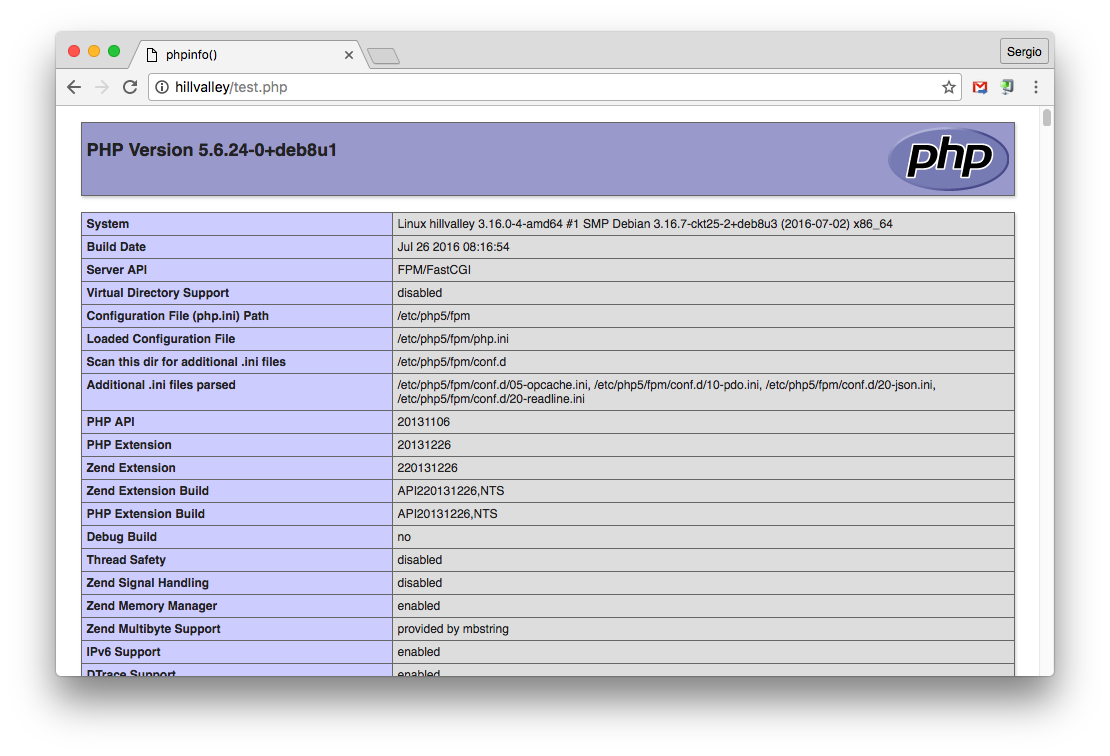
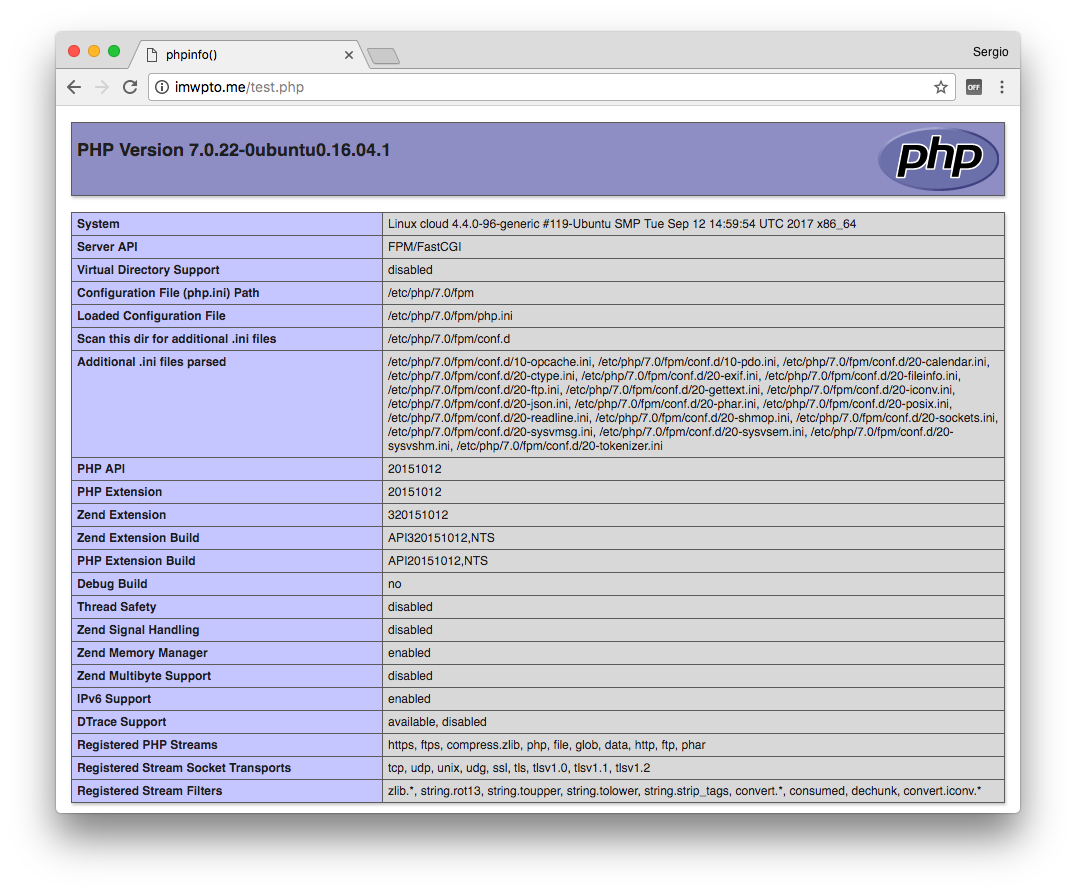
Updated PHP configuration contents

Changed region(s): [[0.0307, 0.0304, 0.9507, 0.9431]]

diff --git a/imw/UT1/notes/phpconf/README.md b/imw/UT1/notes/phpconf/README.md
@@ -1,147 +1,176 @@
 # Configuración de PHP
 
-**PHP** es un lenguaje de programación, ampliamente utilizado en la generación de contenido web.
+**PHP** es un lenguaje de programación, ampliamente utilizado en la creación de contenido web.
+
+![PHP Logo](img/php_logo.png) 
 
 ## Instalación
 
 Aunque ya hemos instalado [el servidor web Nginx](../webserver), necesitamos un módulo adicional que procese el lenguaje PHP.
 
-Existen varios módulos de tratamiento de PHP, pero el más usado es `php-fpm`. Para su instalación usaremos el paquete `php5-fpm` disponible en los repositorios de *apt*:
+Existen varios módulos de tratamiento de PHP, pero el más usado es `php-fpm`. Para su instalación usaremos el paquete `php-fpm` disponible en los repositorios de *apt*:
 
 ```console
-root@hillvalley:~# apt-get install php5-fpm
+sdelquin@cloud:~$ sudo apt-get install php-fpm
 Leyendo lista de paquetes... Hecho
 Creando árbol de dependencias
 Leyendo la información de estado... Hecho
-Se instalarán los siguientes paquetes extras:
-  libapparmor1 libonig2 libqdbm14 php5-cli php5-common php5-json php5-readline
+Se instalarán los siguientes paquetes adicionales:
+  php-common php7.0-cli php7.0-common php7.0-fpm php7.0-json php7.0-opcache php7.0-readline
 Paquetes sugeridos:
-  php-pear php5-user-cache
+  php-pear
 Se instalarán los siguientes paquetes NUEVOS:
-  libapparmor1 libonig2 libqdbm14 php5-cli php5-common php5-fpm php5-json php5-readline
-0 actualizados, 8 nuevos se instalarán, 0 para eliminar y 0 no actualizados.
-Se necesita descargar 5.441 kB de archivos.
-Se utilizarán 20,4 MB de espacio de disco adicional después de esta operación.
+  php-common php-fpm php7.0-cli php7.0-common php7.0-fpm php7.0-json php7.0-opcache php7.0-readline
+0 actualizados, 8 nuevos se instalarán, 0 para eliminar y 22 no actualizados.
+Se necesita descargar 3.543 kB de archivos.
+Se utilizarán 14,1 MB de espacio de disco adicional después de esta operación.
 ¿Desea continuar? [S/n]
-Des:1 http://ftp.es.debian.org/debian/ jessie/main libonig2 amd64 5.9.5-3.2 [118 kB]
-Des:2 http://ftp.es.debian.org/debian/ jessie/main libqdbm14 amd64 1.8.78-5+b1 [118 kB]
-Des:3 http://ftp.es.debian.org/debian/ jessie/main php5-json amd64 1.3.6-1 [18,6 kB]
-Des:4 http://ftp.es.debian.org/debian/ jessie/main libapparmor1 amd64 2.9.0-3 [60,3 kB]
-Des:5 http://security.debian.org/ jessie/updates/main php5-common amd64 5.6.24+dfsg-0+deb8u1 [725 kB]
-Des:6 http://security.debian.org/ jessie/updates/main php5-cli amd64 5.6.24+dfsg-0+deb8u1 [2.187 kB]
-Des:7 http://security.debian.org/ jessie/updates/main php5-fpm amd64 5.6.24+dfsg-0+deb8u1 [2.201 kB]
-Des:8 http://security.debian.org/ jessie/updates/main php5-readline amd64 5.6.24+dfsg-0+deb8u1 [12,7 kB]
-Descargados 5.441 kB en 6s (901 kB/s)
-Seleccionando el paquete libonig2:amd64 previamente no seleccionado.
-(Leyendo la base de datos ... 33832 ficheros o directorios instalados actualmente.)
-Preparando para desempaquetar .../libonig2_5.9.5-3.2_amd64.deb ...
-Desempaquetando libonig2:amd64 (5.9.5-3.2) ...
-Seleccionando el paquete libqdbm14 previamente no seleccionado.
-Preparando para desempaquetar .../libqdbm14_1.8.78-5+b1_amd64.deb ...
-Desempaquetando libqdbm14 (1.8.78-5+b1) ...
-Seleccionando el paquete php5-common previamente no seleccionado.
-Preparando para desempaquetar .../php5-common_5.6.24+dfsg-0+deb8u1_amd64.deb ...
-Desempaquetando php5-common (5.6.24+dfsg-0+deb8u1) ...
-Seleccionando el paquete php5-json previamente no seleccionado.
-Preparando para desempaquetar .../php5-json_1.3.6-1_amd64.deb ...
-Desempaquetando php5-json (1.3.6-1) ...
-Seleccionando el paquete php5-cli previamente no seleccionado.
-Preparando para desempaquetar .../php5-cli_5.6.24+dfsg-0+deb8u1_amd64.deb ...
-Desempaquetando php5-cli (5.6.24+dfsg-0+deb8u1) ...
-Seleccionando el paquete libapparmor1:amd64 previamente no seleccionado.
-Preparando para desempaquetar .../libapparmor1_2.9.0-3_amd64.deb ...
-Desempaquetando libapparmor1:amd64 (2.9.0-3) ...
-Seleccionando el paquete php5-fpm previamente no seleccionado.
-Preparando para desempaquetar .../php5-fpm_5.6.24+dfsg-0+deb8u1_amd64.deb ...
-Desempaquetando php5-fpm (5.6.24+dfsg-0+deb8u1) ...
-Seleccionando el paquete php5-readline previamente no seleccionado.
-Preparando para desempaquetar .../php5-readline_5.6.24+dfsg-0+deb8u1_amd64.deb ...
-Desempaquetando php5-readline (5.6.24+dfsg-0+deb8u1) ...
-Procesando disparadores para man-db (2.7.0.2-5) ...
-Procesando disparadores para systemd (215-17+deb8u4) ...
-Configurando libonig2:amd64 (5.9.5-3.2) ...
-Configurando libqdbm14 (1.8.78-5+b1) ...
-Configurando php5-common (5.6.24+dfsg-0+deb8u1) ...
+Des:1 http://ams2.mirrors.digitalocean.com/ubuntu xenial/main amd64 php-common all 1:35ubuntu6 [10,8 kB]
+Des:2 http://ams2.mirrors.digitalocean.com/ubuntu xenial-updates/main amd64 php7.0-common amd64 7.0.22-0ubuntu0.16.04.1 [843 kB]
+Des:3 http://ams2.mirrors.digitalocean.com/ubuntu xenial-updates/main amd64 php7.0-json amd64 7.0.22-0ubuntu0.16.04.1 [16,9 kB]
+Des:4 http://ams2.mirrors.digitalocean.com/ubuntu xenial-updates/main amd64 php7.0-opcache amd64 7.0.22-0ubuntu0.16.04.1 [77,1 kB]
+Des:5 http://ams2.mirrors.digitalocean.com/ubuntu xenial-updates/main amd64 php7.0-readline amd64 7.0.22-0ubuntu0.16.04.1 [12,8 kB]
+Des:6 http://ams2.mirrors.digitalocean.com/ubuntu xenial-updates/main amd64 php7.0-cli amd64 7.0.22-0ubuntu0.16.04.1 [1.287 kB]
+Des:7 http://ams2.mirrors.digitalocean.com/ubuntu xenial-updates/universe amd64 php7.0-fpm amd64 7.0.22-0ubuntu0.16.04.1 [1.293 kB]
+Des:8 http://ams2.mirrors.digitalocean.com/ubuntu xenial/universe amd64 php-fpm all 1:7.0+35ubuntu6 [2.926 B]
+Descargados 3.543 kB en 1s (2.323 kB/s)
+Seleccionando el paquete php-common previamente no seleccionado.
+(Leyendo la base de datos ... 86141 ficheros o directorios instalados actualmente.)
+Preparando para desempaquetar .../php-common_1%3a35ubuntu6_all.deb ...
+Desempaquetando php-common (1:35ubuntu6) ...
+Seleccionando el paquete php7.0-common previamente no seleccionado.
+Preparando para desempaquetar .../php7.0-common_7.0.22-0ubuntu0.16.04.1_amd64.deb ...
+Desempaquetando php7.0-common (7.0.22-0ubuntu0.16.04.1) ...
+Seleccionando el paquete php7.0-json previamente no seleccionado.
+Preparando para desempaquetar .../php7.0-json_7.0.22-0ubuntu0.16.04.1_amd64.deb ...
+Desempaquetando php7.0-json (7.0.22-0ubuntu0.16.04.1) ...
+Seleccionando el paquete php7.0-opcache previamente no seleccionado.
+Preparando para desempaquetar .../php7.0-opcache_7.0.22-0ubuntu0.16.04.1_amd64.deb ...
+Desempaquetando php7.0-opcache (7.0.22-0ubuntu0.16.04.1) ...
+Seleccionando el paquete php7.0-readline previamente no seleccionado.
+Preparando para desempaquetar .../php7.0-readline_7.0.22-0ubuntu0.16.04.1_amd64.deb ...
+Desempaquetando php7.0-readline (7.0.22-0ubuntu0.16.04.1) ...
+Seleccionando el paquete php7.0-cli previamente no seleccionado.
+Preparando para desempaquetar .../php7.0-cli_7.0.22-0ubuntu0.16.04.1_amd64.deb ...
+Desempaquetando php7.0-cli (7.0.22-0ubuntu0.16.04.1) ...
+Seleccionando el paquete php7.0-fpm previamente no seleccionado.
+Preparando para desempaquetar .../php7.0-fpm_7.0.22-0ubuntu0.16.04.1_amd64.deb ...
+Desempaquetando php7.0-fpm (7.0.22-0ubuntu0.16.04.1) ...
+Seleccionando el paquete php-fpm previamente no seleccionado.
+Preparando para desempaquetar .../php-fpm_1%3a7.0+35ubuntu6_all.deb ...
+Desempaquetando php-fpm (1:7.0+35ubuntu6) ...
+Procesando disparadores para man-db (2.7.5-1) ...
+Procesando disparadores para ureadahead (0.100.0-19) ...
+Procesando disparadores para systemd (229-4ubuntu19) ...
+Configurando php-common (1:35ubuntu6) ...
+Configurando php7.0-common (7.0.22-0ubuntu0.16.04.1) ...
 
-Creating config file /etc/php5/mods-available/pdo.ini with new version
-php5_invoke: Enable module pdo for cli SAPI
-php5_invoke: Enable module pdo for fpm SAPI
+Creating config file /etc/php/7.0/mods-available/calendar.ini with new version
 
-Creating config file /etc/php5/mods-available/opcache.ini with new version
-php5_invoke: Enable module opcache for cli SAPI
-php5_invoke: Enable module opcache for fpm SAPI
-Configurando php5-json (1.3.6-1) ...
-php5_invoke: Enable module json for cli SAPI
-php5_invoke: Enable module json for fpm SAPI
-Configurando php5-cli (5.6.24+dfsg-0+deb8u1) ...
-update-alternatives: utilizando /usr/bin/php5 para proveer /usr/bin/php (php) en modo automático
-update-alternatives: utilizando /usr/bin/phar5 para proveer /usr/bin/phar (phar) en modo automático
+Creating config file /etc/php/7.0/mods-available/ctype.ini with new version
 
-Creating config file /etc/php5/cli/php.ini with new version
-Configurando libapparmor1:amd64 (2.9.0-3) ...
-Configurando php5-fpm (5.6.24+dfsg-0+deb8u1) ...
+Creating config file /etc/php/7.0/mods-available/exif.ini with new version
 
-Creating config file /etc/php5/fpm/php.ini with new version
-Configurando php5-readline (5.6.24+dfsg-0+deb8u1) ...
+Creating config file /etc/php/7.0/mods-available/fileinfo.ini with new version
 
-Creating config file /etc/php5/mods-available/readline.ini with new version
-php5_invoke: Enable module readline for cli SAPI
-php5_invoke: Enable module readline for fpm SAPI
-Procesando disparadores para libc-bin (2.19-18+deb8u4) ...
-Procesando disparadores para systemd (215-17+deb8u4) ...
-Procesando disparadores para php5-fpm (5.6.24+dfsg-0+deb8u1) ...
-root@hillvalley:~#
+Creating config file /etc/php/7.0/mods-available/ftp.ini with new version
+
+Creating config file /etc/php/7.0/mods-available/gettext.ini with new version
+
+Creating config file /etc/php/7.0/mods-available/iconv.ini with new version
+
+Creating config file /etc/php/7.0/mods-available/pdo.ini with new version
+
+Creating config file /etc/php/7.0/mods-available/phar.ini with new version
+
+Creating config file /etc/php/7.0/mods-available/posix.ini with new version
+
+Creating config file /etc/php/7.0/mods-available/shmop.ini with new version
+
+Creating config file /etc/php/7.0/mods-available/sockets.ini with new version
+
+Creating config file /etc/php/7.0/mods-available/sysvmsg.ini with new version
+
+Creating config file /etc/php/7.0/mods-available/sysvsem.ini with new version
+
+Creating config file /etc/php/7.0/mods-available/sysvshm.ini with new version
+
+Creating config file /etc/php/7.0/mods-available/tokenizer.ini with new version
+Configurando php7.0-json (7.0.22-0ubuntu0.16.04.1) ...
+
+Creating config file /etc/php/7.0/mods-available/json.ini with new version
+Configurando php7.0-opcache (7.0.22-0ubuntu0.16.04.1) ...
+
+Creating config file /etc/php/7.0/mods-available/opcache.ini with new version
+Configurando php7.0-readline (7.0.22-0ubuntu0.16.04.1) ...
+
+Creating config file /etc/php/7.0/mods-available/readline.ini with new version
+Configurando php7.0-cli (7.0.22-0ubuntu0.16.04.1) ...
+update-alternatives: utilizando /usr/bin/php7.0 para proveer /usr/bin/php (php) en modo automático
+update-alternatives: utilizando /usr/bin/phar7.0 para proveer /usr/bin/phar (phar) en modo automático
+update-alternatives: utilizando /usr/bin/phar.phar7.0 para proveer /usr/bin/phar.phar (phar.phar) en modo automático
+
+Creating config file /etc/php/7.0/cli/php.ini with new version
+Configurando php7.0-fpm (7.0.22-0ubuntu0.16.04.1) ...
+
+Creating config file /etc/php/7.0/fpm/php.ini with new version
+Configurando php-fpm (1:7.0+35ubuntu6) ...
+Procesando disparadores para systemd (229-4ubuntu19) ...
+Procesando disparadores para ureadahead (0.100.0-19) ...
+sdelquin@cloud:~$
 ```
 
 ## Configuración
 
-A continuación tenemos que indicarle al servidor web, en este caso **Nginx**, que debe utilizar el módulo `php5-fpm` cuando vaya a manejar ficheros `.php`.
+A continuación tenemos que indicarle al servidor web, en este caso **Nginx**, que debe utilizar el módulo `php-fpm` cuando vaya a manejar ficheros `.php`.
 
 El fichero de configuración de **Nginx** está en `/etc/nginx/nginx.conf`. A su vez, existen una serie de ficheros adicionales de configuración colgando de `/etc/nginx/sites-available`. En concreto, debemos editar el fichero de configuración general `/etc/nginx/sites-available/default`:
 
 ```console
-root@hillvalley:~# vi /etc/nginx/sites-available/default
+sdelquin@cloud:~$ sudo vi /etc/nginx/sites-available/default
 ```
 
 Buscamos la sección de **PHP**:
 
 ```nginx
-    # Add index.php to the list if you are using PHP
-    index index.html index.htm index.nginx-debian.html;
-    ...
-    #location ~ \.php$ {
-    # include snippets/fastcgi-php.conf;
-    #
-    # # With php5-cgi alone:
-    # fastcgi_pass 127.0.0.1:9000;
-    # # With php5-fpm:
-    # fastcgi_pass unix:/var/run/php5-fpm.sock;
-    #}
+38     # Add index.php to the list if you are using PHP
+39     index index.html index.htm index.nginx-debian.html;
+       ...
+       ...
+       ...
+52     #location ~ \.php$ {
+53     #   include snippets/fastcgi-php.conf;
+54     #
+55     #   # With php7.0-cgi alone:
+56     #   fastcgi_pass 127.0.0.1:9000;
+57     #   # With php7.0-fpm:
+58     #   fastcgi_pass unix:/run/php/php7.0-fpm.sock;
+59     #}
 ```
 
 Añadimos `index.php` como posible fichero de inicio y descomentamos las líneas que nos interesan, con lo que quedaría así:
 
 ```nginx
-    # Add index.php to the list if you are using PHP
-    index index.html index.htm index.nginx-debian.html index.php;
-    ...
-    location ~ \.php$ {
-      try_files $uri =404;
-      include snippets/fastcgi-php.conf;
-    #
-    # # With php5-cgi alone:
-    # fastcgi_pass 127.0.0.1:9000;
-    # # With php5-fpm:
-      fastcgi_pass unix:/var/run/php5-fpm.sock;
-    }
+# Add index.php to the list if you are using PHP
+index index.html index.htm index.nginx-debian.html index.php;
+...
+...
+...
+location ~ \.php$ {
+    include snippets/fastcgi-php.conf;
+
+#   # With php7.0-cgi alone:
+#   fastcgi_pass 127.0.0.1:9000;
+#   # With php7.0-fpm:
+    fastcgi_pass unix:/run/php/php7.0-fpm.sock;
+}
 ```
 
 Ya sólo nos falta recargar el servidor web:
 
 ```console
-root@hillvalley:~# /etc/init.d/nginx reload
-[ ok ] Reloading nginx configuration (via systemctl): nginx.service.
-root@hillvalley:~#
+sdelquin@cloud:~$ sudo systemctl reload nginx
+sdelquin@cloud:~$
 ```
 
 ## Comprobación de funcionamiento
@@ -151,7 +180,7 @@ Si queremos saber el *document root* del servidor web **Nginx**, podemos ver el 
 Por tanto, vamos a crear un fichero sencillo en *php* en dicho directorio, para comprobar el funcionamiento:
 
 ```console
-root@hillvalley:~# vi /var/www/html/test.php
+sdelquin@cloud:~$ sudo vi /var/www/html/test.php
 ```
 
 > Contenido:
